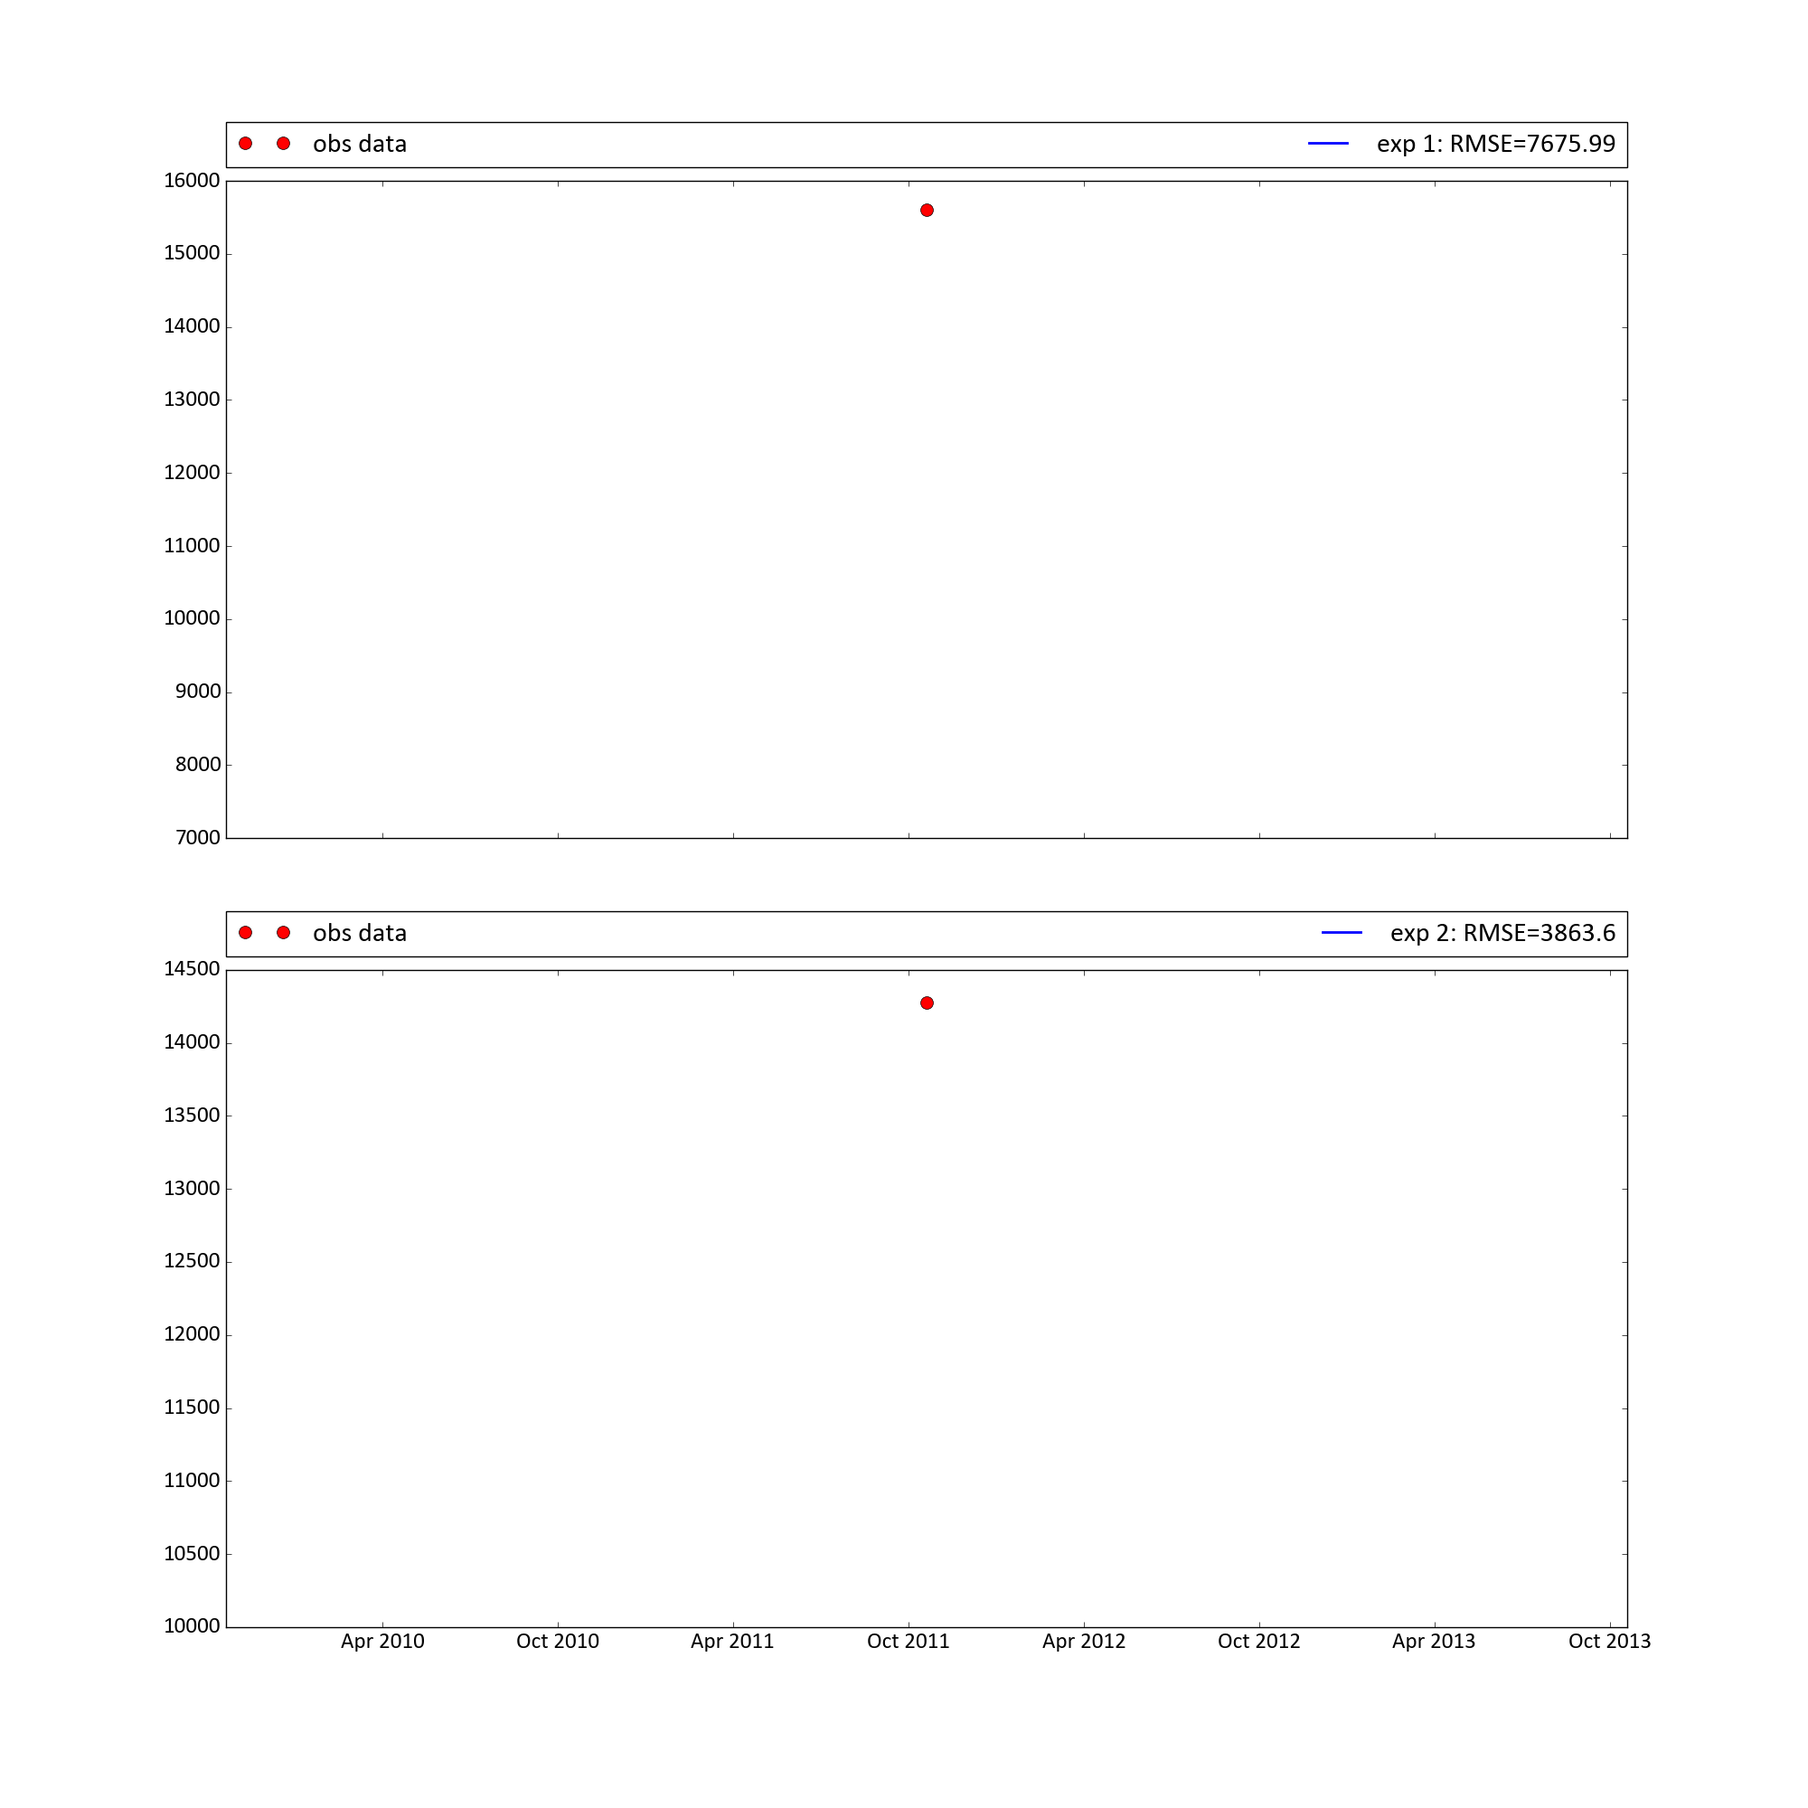
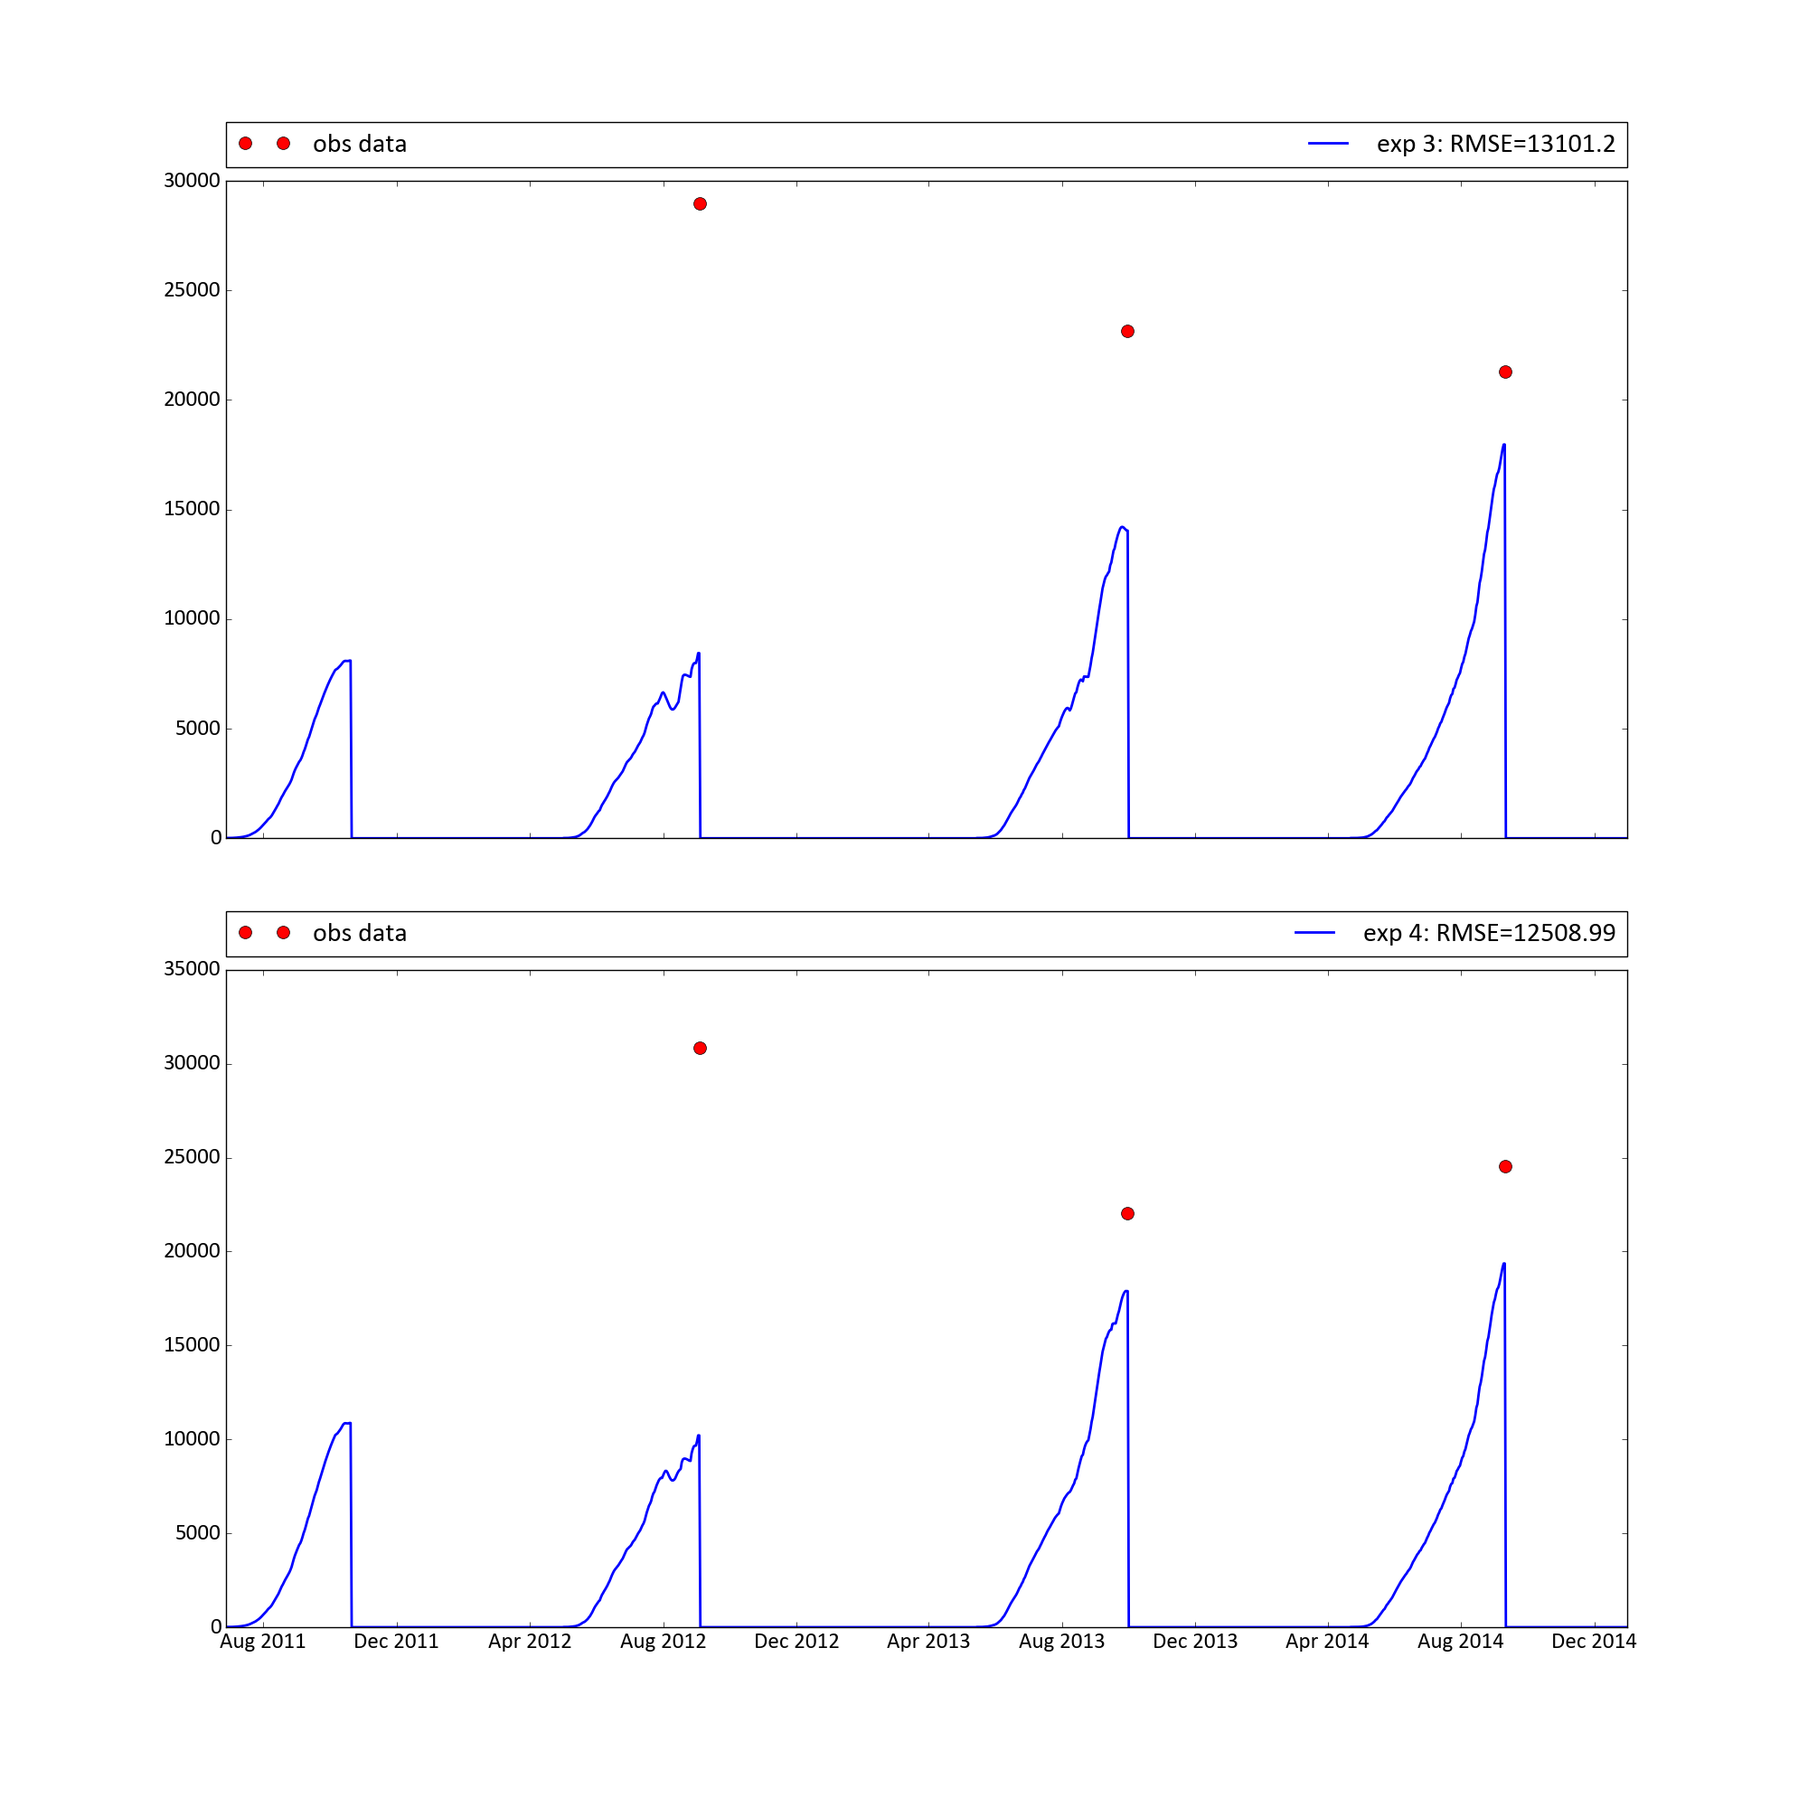
Added daily outputs on the charts

diff --git a/MONICA_adapter.py b/MONICA_adapter.py
@@ -13,35 +13,35 @@ from threading import Thread
 
 
 class monica_adapter(object):
-    def __init__(self, exp_maps, obslist):
-        
+    def __init__(self, exp_maps, obslist, finalrun):
+
         #for multi-experiment: create a M-2 relationship between exp_IDs and param files
         self.IDs_paramspaths = {}
         for exp_map in exp_maps:
             self.IDs_paramspaths[exp_map["exp_ID"]] = {}
             self.IDs_paramspaths[exp_map["exp_ID"]]["species"] = exp_map["species_file"]
             self.IDs_paramspaths[exp_map["exp_ID"]]["cultivar"] = exp_map["cultivar_file"]
-        
+
         #observations data structures
-        self.observations  = [] #for spotpy
+        self.observations = [] #for spotpy
         self.evaluationdates = {} #for plotting outputs
         self.obsdict = {} #for plotting outputs
-        i=0 #i is a reference to match the element in result array (from spotpy)
+        i = 0 #i is a reference to match the element in result array (from spotpy)
         for record in obslist:
             self.observations.append(record["value"])
             if record["variable"] not in self.evaluationdates: #add the variable as a key
                 self.evaluationdates[record["variable"]] = {}
                 self.obsdict[record["variable"]] = {}
             if record["exp_ID"] not in self.evaluationdates[record["variable"]]: #add the experiment as a key
-                self.evaluationdates[record["variable"]][record["exp_ID"]] = [] 
+                self.evaluationdates[record["variable"]][record["exp_ID"]] = []
                 self.obsdict[record["variable"]][record["exp_ID"]] = []
             thisdate = record["date"].split("-")#self.evaluationdates needs a date type (not isoformat)
             self.evaluationdates[record["variable"]][record["exp_ID"]].append([i, date(int(thisdate[0]), int(thisdate[1]), int(thisdate[2]))])
             self.obsdict[record["variable"]][record["exp_ID"]].append([i, record["value"]])
-            i +=1
+            i += 1
 
         self.species_params={} #map to store different species params sets avoiding repetition
-        self.cultivar_params={} #map to store different cultivar params sets avoiding repetition     
+        self.cultivar_params={} #map to store different cultivar params sets avoiding repetition
 
         #create envs
         self.envs = []
@@ -68,11 +68,20 @@ class monica_adapter(object):
             })
 
             #add required outputs
+            
             for record in obslist:
                 if record["exp_ID"] == exp_map["exp_ID"]:
-                    env["events"].append(unicode(record["date"]))
-                    var = [unicode(record["variable"])]
-                    env["events"].append(var) #TODO:Add weight here?
+                    if not finalrun: #output only info required by spotpy
+                        env["events"].append(unicode(record["date"]))
+                        var = [unicode(record["variable"])]
+                        env["events"].append(var) #TODO:Add weight here?
+                    elif finalrun: #daily output for plots
+                        if "daily" not in env["events"]:
+                            env["events"].append(unicode("daily"))
+                            env["events"].append([]) #empty list of daily variables
+                            env["events"][1].append(unicode("Date"))
+                        var = [unicode(record["variable"])]
+                        env["events"][1].append(var)
 
             position = int(exp_map["where_in_rotation"][0])
 
@@ -81,7 +90,7 @@ class monica_adapter(object):
                     self.species_params[exp_map["species_file"]] = ws["crop"]["cropParams"]["species"]
                     self.cultivar_params[exp_map["cultivar_file"]] = ws["crop"]["cropParams"]["cultivar"]
                     break
-            
+
             monica_io.add_climate_data_to_env(env, sim)
             env["customId"] = exp_map["exp_ID"]
             env["where_in_rotation"] = exp_map["where_in_rotation"]
@@ -95,10 +104,10 @@ class monica_adapter(object):
     def run(self,args):
         return self._run(*args)
 
-    def _run(self,vector, user_params):
-        
-        evallist=[]
-        self.out={}
+    def _run(self,vector, user_params, finalrun):
+
+        evallist = []
+        self.out = {}
 
         #set params according to spotpy sampling. Update all the species/cultivar available
         for i in range(len(vector)):                        #loop on the vector
@@ -106,7 +115,7 @@ class monica_adapter(object):
             for s in self.species_params:                   #loop on the species
                 species = self.species_params[s]
                 if par_name in species.keys():              #check for parameter existence in the dict
-                    if user_params[i]["array"] == "FALSE":  #check the parameter is not part of an array   
+                    if user_params[i]["array"].upper() == "FALSE":  #check the parameter is not part of an array   
                         species[par_name] = vector[i]
                     else:
                         arr_index= user_params[i]["array"]
@@ -115,27 +124,27 @@ class monica_adapter(object):
                     break                                   #break loop on species if the param is not there
             for cv in self.cultivar_params:                 #loop on the cultivars
                 cultivar = self.cultivar_params[cv]
-                if par_name in cultivar.keys():             
-                    if user_params[i]["array"] == "FALSE":     
+                if par_name in cultivar.keys():
+                    if user_params[i]["array"].upper() == "FALSE":
                         cultivar[par_name] = vector[i]
                     else:
-                        arr_index= user_params[i]["array"]
-                        if isinstance(cultivar[par_name][1], basestring): 
-                            #q&d way to understand if parameters' values are in a nested array (e.g., StageTemperatureSum)
+                        arr_index = user_params[i]["array"]
+                        if isinstance(cultivar[par_name][1], basestring):
+                            #q&d way to understand if parameters values are in a nested array -Tsums
                             #a better -and more generic- solution must be found!
                             cultivar[par_name][0][int(arr_index)] = vector[i]
                             #for maize only (while calibrating TSUM1):
                             #cultivar[par_name][0][2] = vector[i] * 0.290666667
                             #cultivar[par_name][0][3] = vector[i] * 0.333333333
                             #cultivar[par_name][0][4] = vector[i] * 0.266666666
-                            #cultivar[par_name][0][5] = vector[i] * 0.533333333                            
+                            #cultivar[par_name][0][5] = vector[i] * 0.533333333
                         else:
                             cultivar[par_name][int(arr_index)] = vector[i]
                 else:
                     break
 
         #launch parallel thread for the collector
-        collector = Thread(target=self.collect_results)
+        collector = Thread(target=self.collect_results, kwargs={'finalrun': finalrun})
         collector.daemon = True
         collector.start()
 
@@ -151,24 +160,27 @@ class monica_adapter(object):
                         ws["crop"]["cropParams"]["species"] = species
                         ws["crop"]["cropParams"]["cultivar"] = cultivar
                         break
-            
-            self.socket_producer.send_json(env)
-            
-        
-        #wait until the collector finishes
-        #print "wait for collector to finish"
-        collector.join()
-        #print "collector finished"
-        
-        #build the evaluation list
-        ordered_out = collections.OrderedDict(sorted(self.out.items()))
-        for k, v in ordered_out.iteritems():
-            for value in v:
-                evallist.append(float(value))
-        
-        return evallist
 
-    def collect_results(self):
+            self.socket_producer.send_json(env)
+
+
+        #wait until the collector finishes
+        collector.join()
+        
+        #build the evaluation list for spotpy        
+        if not finalrun:
+            ordered_out = collections.OrderedDict(sorted(self.out.items()))
+            for k, v in ordered_out.iteritems():
+                for value in v:
+                    evallist.append(float(value))
+
+            return evallist
+
+        #return daily outputs
+        elif finalrun:
+            return self.out
+
+    def collect_results(self, finalrun):
         socket_collector = self.context.socket(zmq.PULL)
         #socket_collector.connect("tcp://cluster2:7777")
         socket_collector.connect("tcp://localhost:7777")
@@ -180,11 +192,28 @@ class monica_adapter(object):
             except:
                 continue
             
-            results_rec = []
-            for res in rec_msg["data"]:
-                results_rec.append(res["results"][0][0])
+            if not finalrun:
+                results_rec = []
+                for res in rec_msg["data"]:
+                    results_rec.append(res["results"][0][0])
+                self.out[int(rec_msg["customId"])] = results_rec
+
+            elif finalrun:
+                self.out[int(rec_msg["customId"])] = {}
+                indexes_variables = []
+                outputIds = rec_msg["data"][0]["outputIds"]
+                for index in range(len(outputIds)):
+                    indexes_variables.append(outputIds[index]["name"])
+                results = rec_msg["data"][0]["results"]
+                for res in range(len(results)):
+                    variable = indexes_variables[res]
+                    daily_out = results[res]
+                    if variable == "Date":
+                        for t in range(len(daily_out)):
+                            day = daily_out[t].split("-")#charts need a date type (not isoformat)
+                            daily_out[t] = date(int(day[0]), int(day[1]), int(day[2]))
+                    self.out[int(rec_msg["customId"])][variable] = daily_out
             
-            self.out[int(rec_msg["customId"])] = results_rec
             received_results += 1
 
             #print("total received: " + str(received_results))
@@ -192,4 +221,4 @@ class monica_adapter(object):
             if received_results == len(self.envs):
                 leave = True
 
-                
+

diff --git a/sampler_MONICA.py b/sampler_MONICA.py
@@ -16,7 +16,7 @@ font = {'family' : 'calibri',
 def produce_plot(experiments, variable, ylabel='Best model simulation', xlabel='Date'):
     import matplotlib.pyplot as plt
     from matplotlib import colors
-    cnames = list(colors.cnames)
+    #cnames = list(colors.cnames)
 
     plt.rc('font', **font)
     colors = ['grey', 'black', 'brown', 'red', 'orange', 'yellow', 'green', 'blue']
@@ -29,7 +29,8 @@ def produce_plot(experiments, variable, ylabel='Best model simulation', xlabel='
     for exp in experiments:
         RMSE = spotpy.objectivefunctions.rmse(experiments[exp]["obs"], experiments[exp]["sims"])
         axarr[i].plot(experiments[exp]["dates"], experiments[exp]["obs"], 'ro', markersize=10, label='obs data')
-        axarr[i].plot(experiments[exp]["dates"], experiments[exp]["sims"],'-', color=colors[7], linewidth=2, label='exp ' + exp + ': RMSE=' + str(round(RMSE, 2)))
+        #axarr[i].plot(experiments[exp]["dates"], experiments[exp]["sims"],'-', color=colors[7], linewidth=2, label='exp ' + exp + ': RMSE=' + str(round(RMSE, 2)))
+        axarr[i].plot(experiments[exp]["all_dates"], experiments[exp]["daily"],'-', color=colors[7], linewidth=2, label='exp ' + exp + ': RMSE=' + str(round(RMSE, 2)))
         axarr[i].legend(bbox_to_anchor=(0., 1.02, 1., .102), loc=3, ncol=2, mode="expand", borderaxespad=0.)
         #axarr[i].set_title(str(exp))
         i +=1
@@ -94,7 +95,7 @@ with open('calibratethese.csv') as paramscsv:
         params.append(p)
 
 spot_setup = spotpy_setup_MONICA.spot_setup(params, exp_maps, obslist)
-rep = 50
+rep = 10
 results = []
 
 sampler = spotpy.algorithms.sceua(spot_setup, dbname='SCEUA', dbformat='ram')
@@ -109,7 +110,7 @@ with open('optimizedparams.csv', 'wb') as outcsvfile:
     for i in range(len(best)):
         outrow=[]
         arr_pos = ""
-        if params[i]["array"] != "FALSE":
+        if params[i]["array"].upper() != "FALSE":
             arr_pos = params[i]["array"]        
         outrow.append(params[i]["name"]+arr_pos)
         outrow.append(best[i])
@@ -127,6 +128,11 @@ bestmodelrun=list(spotpy.analyser.get_modelruns(results[i])[index][0]) #Transfor
 obs_dates = spot_setup.evaluation(get_dates_dict=True)
 obs_values = spot_setup.evaluation(get_values_dict=True)
 
+#Run with optimized params
+print("running simulations with optimized params")
+spot_setup = spotpy_setup_MONICA.spot_setup(params, exp_maps, obslist, True)
+daily_out = spot_setup.simulation(best, True)
+
 #retrieve info for plots
 for variable in obs_dates:
     exps = {}
@@ -143,6 +149,8 @@ for variable in obs_dates:
         exps[experiment]["dates"] = dates
         exps[experiment]["sims"] = sims
         exps[experiment]["obs"] = obs
+        exps[experiment]["daily"] = daily_out[int(experiment)][variable]
+        exps[experiment]["all_dates"] = daily_out[int(experiment)]["Date"]
     produce_plot(exps,variable)
 
 

diff --git a/spotpy_setup_MONICA.py b/spotpy_setup_MONICA.py
@@ -8,7 +8,7 @@ import MONICA_adapter
 import re
 
 class spot_setup(object):
-    def __init__(self, user_params, exp_maps, obslist):
+    def __init__(self, user_params, exp_maps, obslist, finalrun=False):
         self.user_params = user_params
         self.params = []
         for par in user_params:
@@ -16,14 +16,14 @@ class spot_setup(object):
             if re.search(r'\d', par["array"]): #check if par["array"] contains numbers
                 parname += "_" + par["array"] #spotpy does not allow two parameters to have the same name
             self.params.append(spotpy.parameter.Uniform(parname, par["low"], par["high"], par["stepsize"], par["optguess"], par["minbound"], par["maxbound"]))
-        self.monica_model = MONICA_adapter.monica_adapter(exp_maps, obslist)
+        self.monica_model = MONICA_adapter.monica_adapter(exp_maps, obslist, finalrun)
 
     def parameters(self):
         return spotpy.parameter.generate(self.params)
 
-    def simulation(self,vector):
+    def simulation(self, vector, finalrun = False):
         #the vector comes from spotpy, self.user_params holds the information coming from csv file
-        simulations= self.monica_model._run(vector, self.user_params)
+        simulations= self.monica_model._run(vector, self.user_params, finalrun)
         return simulations
 
     def evaluation(self, get_dates_dict=False, get_values_dict=False):
